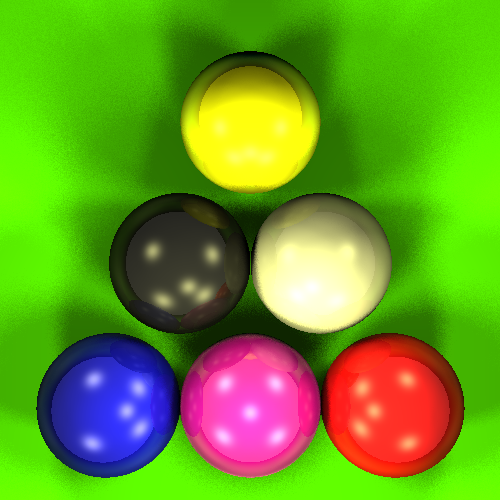
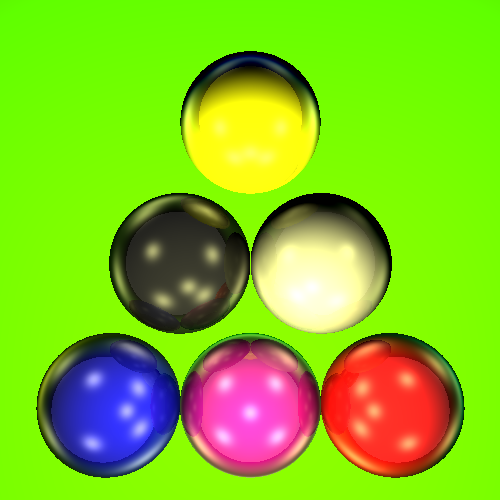
fixed grid size

diff --git a/ray_tracer.py b/ray_tracer.py
@@ -244,12 +244,12 @@ def ray_tracer(ray, i, j, image_array, objects, scene_settings, origin_point, de
                 reflected_ray = ray - 2 * np.dot(ray, normal) * normal
                 reflected_ray = reflected_ray / np.linalg.norm(reflected_ray)
 
-                bounding_box_width = light.radius / math.sqrt(2)
+                bounding_box_width = light.radius
 
-                grid_ratio = 2 * bounding_box_width / scene_settings.root_number_shadow_rays
+                grid_ratio = bounding_box_width / scene_settings.root_number_shadow_rays
 
                 light_v_right = np.random.randn(3)
-                light_v_right -= light_v_right.dot(-intersection_to_light) * (-intersection_to_light) / np.linalg.norm(-intersection_to_light) ** 2
+                light_v_right -= np.dot(light_v_right, -intersection_to_light) * (-intersection_to_light) / np.linalg.norm(-intersection_to_light) ** 2
                 light_v_right /= np.linalg.norm(light_v_right)
 
                 light_v_up = np.cross(-intersection_to_light, light_v_right)
@@ -371,8 +371,5 @@ if __name__ == '__main__':
     print("time :", end - start)
 
 
-# TODO: make a function for intersections and use it in ray_tracer and ray_tracer_shadow
 # TODO: comments and documentation
-# TODO: improve performance
 # TODO: transparency bonus
-# TODO: maybe change "epsilon" (0.00001) to a different value, maybe 0.01 or 0.001
